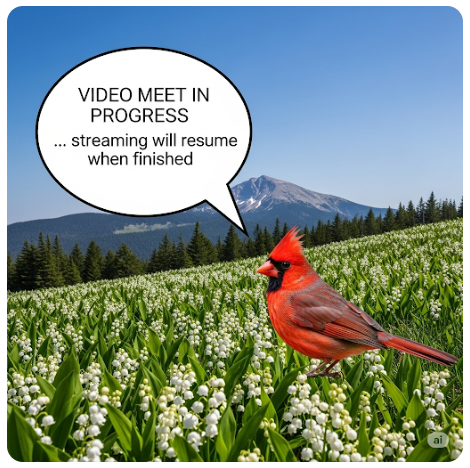
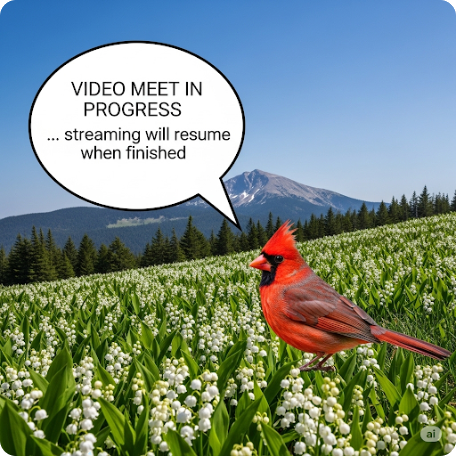
v1.21 - -2 styling adjustments

diff --git a/public/css/stylesheet.sass b/public/css/stylesheet.sass
@@ -335,13 +335,9 @@ a#right-next
 
 // Styling for the webcam container
 .webcam-container
-  background-color: colors.$colorBGray000 // White background
-  border-radius: 1rem // Rounded corners
-  box-shadow: 0 10px 15px -3px rgba(colors.$colorBGray900, 0.1), 0 4px 6px -2px rgba(colors.$colorBGray900, 0.05) // Subtle shadow using existing grey
-  padding: 1.5em // Padding inside the container
   max-width: 700px // Max width to keep it from getting too wide on large screens
   width: 100% // Make it responsive
-  margin-bottom: 20px
+  margin-bottom: 1em
   display: flex
   justify-content: center // Center the image horizontally
   align-items: center // Center the image vertically
@@ -352,7 +348,7 @@ a#right-next
   max-width: 100% // Ensure the image scales down within its container
   height: auto // Maintain aspect ratio
   border-radius: 0.75rem // Slightly less rounded than the container
-  border: 2px solid colors.$colorPrimary500 // A thin border for emphasis
+  border: 1px solid colors.$colorPrimary100 // A thin border for emphasis
   width: 640px // Base width 
   height: 480px // Base height 
 

diff --git a/public/css/stylesheet.css b/public/css/stylesheet.css
@@ -583,6 +583,25 @@ a#right-next {
     font-size: 24px;
   }
 }
+.webcam-container {
+  max-width: 700px;
+  width: 100%;
+  margin-bottom: 1em;
+  display: flex;
+  justify-content: center;
+  align-items: center;
+}
+
+#webcam-stream {
+  display: block;
+  max-width: 100%;
+  height: auto;
+  border-radius: 0.75rem;
+  border: 1px solid #C3CBE9;
+  width: 640px;
+  height: 480px;
+}
+
 @media (min-width: 768px) and (max-width: 991px) {
   html {
     font-size: 20px;

diff --git a/app/version.rb b/app/version.rb
@@ -4,7 +4,7 @@ module Angalia              # Define the top-level module  Angalia::
 # +++++++++++++++++++++++++++++++++++++++++++++++++
 
 module Angalia
-  VERSION = "1.20"
+  VERSION = "1.21"
 end
 
 end  # module Angalia
